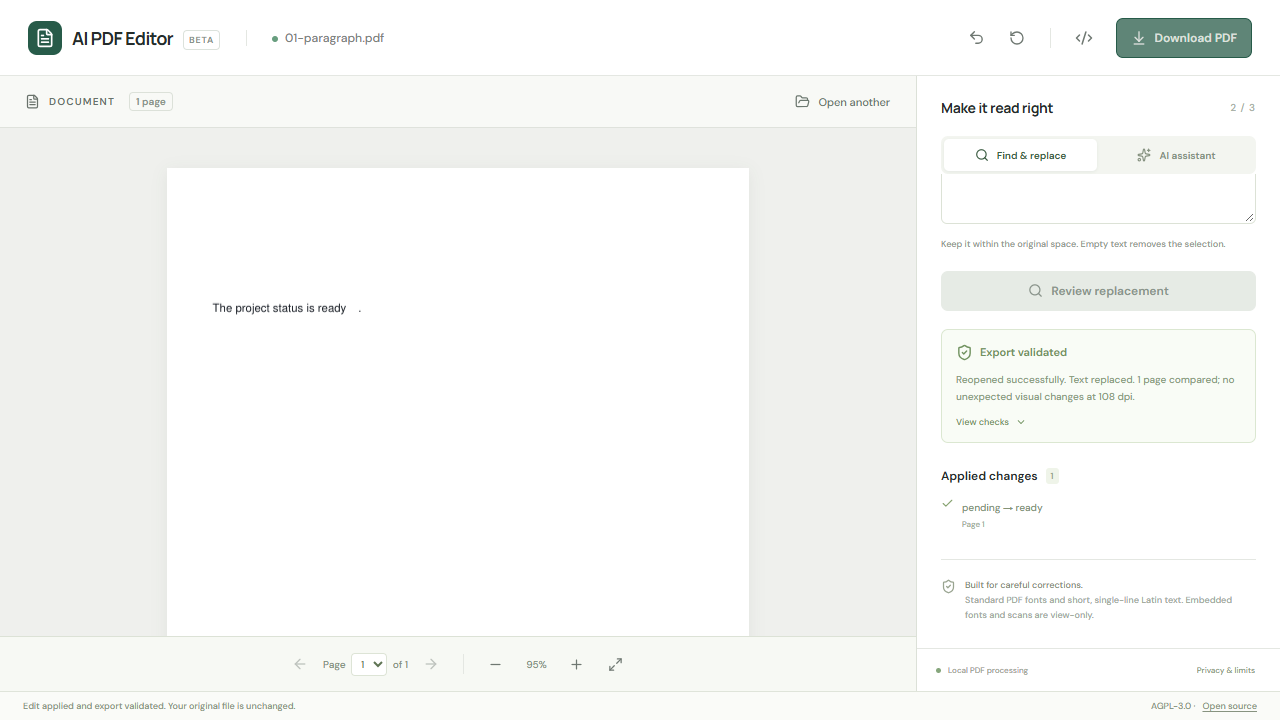
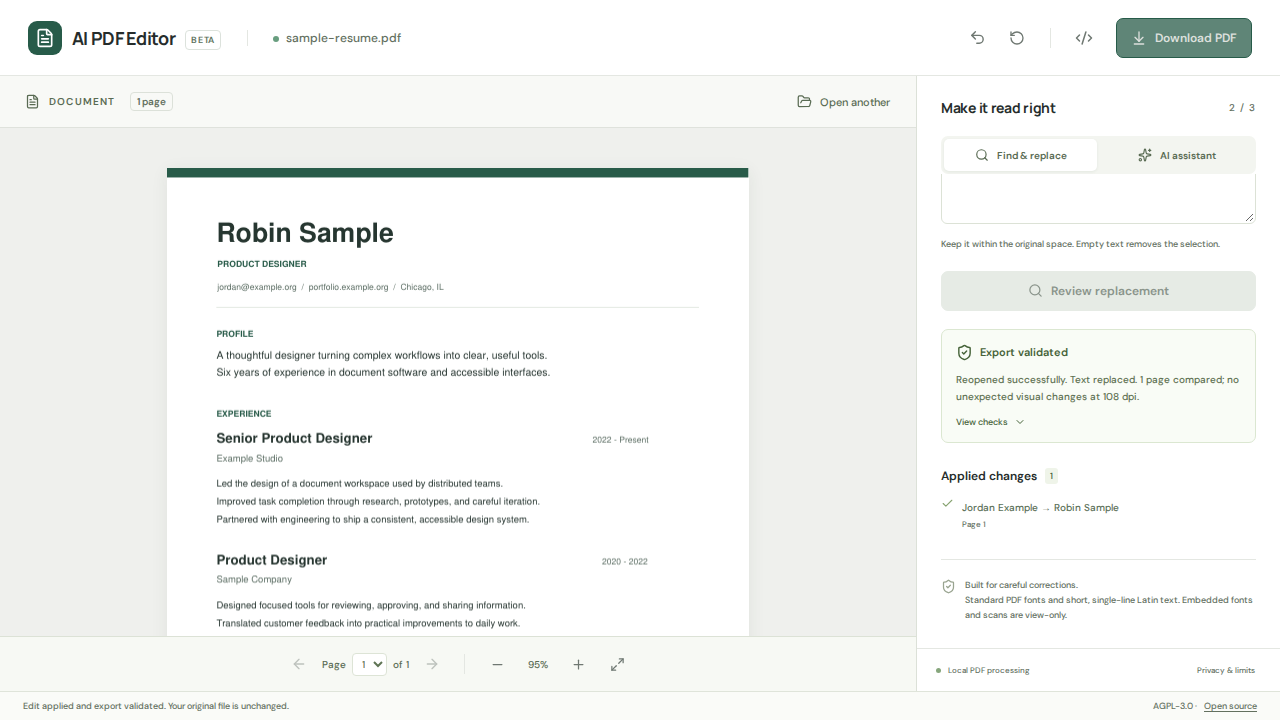
docs: publish verified production results and real AI export evidence

diff --git a/README.md b/README.md
@@ -2,7 +2,7 @@
 
 Careful corrections to existing PDF text, with an explicit review step and checks on the **actual exported PDF**. Manual editing stays on your device and works without an AI provider.
 
-**Status: PARTIALLY COMPLETE.** The manual workflow has passed real Chromium upload/edit/download tests. Public Cloudflare deployment and live Groq integration have not been verified yet. No live demo URL is claimed.
+**Status: COMPLETE for the documented MVP scope.** [Open the live editor](https://ai-pdf-editor.pages.dev). Production manual editing/export and real Turnstile → Groq proposal → review → apply → download have passed, including independent PDF.js verification. See [production evidence](docs/PRODUCTION-VERIFICATION.md) and [current CI/deployment runs](https://github.com/academ1cian/ai-pdf-editor/actions).
 
 ![Actual editor after a validated edit](docs/screenshots/editor.png)
 
@@ -14,7 +14,7 @@ Careful corrections to existing PDF text, with an explicit review step and check
 - Actual source-text removal through applied redaction, followed by real page-content insertion. No rectangle covering old text and no annotation-only mock edits.
 - Export validation: reopen, page count, exact changed-region text, neighboring glyph positions, hyperlinks and all-page pixel comparison.
 - Immutable original, validated snapshots, undo, reset, change history and genuinely modified downloads.
-- Optional AI proposal UI and protected Groq Worker implementation; fail-closed when unconfigured. Live provider/production checks remain pending.
+- Optional AI proposals through a protected Groq Worker; real production integration verified. Manual editing works independently of AI availability.
 
 ## Honest support boundaries
 
@@ -30,7 +30,7 @@ Validation at 108 dpi is evidence, not a guarantee of every printer, viewer or P
 
 Every successful proof-of-concept export reopened with independent PDF.js extraction. Every affected and unaffected page was raster-compared at 108 dpi; zero unexpected pixels outside the original target span plus a two-pixel antialias margin. The original input remained unchanged. See [engine decision](docs/ADR-001-pdf-engine.md), [test matrix](docs/TEST-MATRIX.md) and [machine-readable evidence](tests/evidence/results.json).
 
-Before migration to remote runners, 28 unit/integration tests and 3 Chromium browser tests passed; the frontend and Worker dry-run builds succeeded. Subsequent remote checks, added deployment safety tests and Firefox/WebKit results are reported by [GitHub Actions](https://github.com/academ1cian/ai-pdf-editor/actions), not assumed from the local results.
+GitHub-hosted verification passed **34 unit/integration/safety tests** and **12 end-to-end tests across Chromium, Firefox and WebKit**, plus typecheck, lint, production build and Worker dry-run. The actual public deployment passed **4 Chromium production smoke cases**. A separate hosted PDF.js check independently verified the real AI-downloaded export: replacement searchable, original target absent, same page count and all other extracted text preserved.
 
 ## Architecture
 
@@ -87,7 +87,7 @@ Use [GitHub repository secrets](https://github.com/academ1cian/ai-pdf-editor/set
 | `CLOUDFLARE_ACCOUNT_ID` | Chosen Cloudflare account |
 | `TURNSTILE_SECRET` | Server verification secret for the real widget |
 
-Public repository variables: `TURNSTILE_SITE_KEY`, `CF_FREE_PLAN_CONFIRMED=true` after verifying both providers are Free, and `DEPLOY_ENABLED=true` when ready. Requested Pages project name: `ai-pdf-editor`, anticipated hostname `ai-pdf-editor.pages.dev`; `CF_PAGES_PROJECT` can override it. Authenticated project creation verifies the returned hostname and stops on a collision. This is configuration, **not a claimed live URL**.
+Public repository variables: `TURNSTILE_SITE_KEY`, `CF_FREE_PLAN_CONFIRMED=true` after verifying both providers are Free, and `DEPLOY_ENABLED=true` when ready. Deployed Pages project: `ai-pdf-editor`; verified production hostname: [`ai-pdf-editor.pages.dev`](https://ai-pdf-editor.pages.dev). Authenticated project creation checks the returned hostname and stops on a collision.
 
 Read [deployment instructions and minimum authorization](docs/DEPLOYMENT.md). Deployment sends secret values directly over TLS to Cloudflare's Worker Secret API; no secret-valued shell arguments, temporary files, uploaded artifacts or log output. It checks the account's subscriptions read-only and refuses paid/unrecognized account plans. No billing/subscription writes are implemented. Forked PRs cannot deploy. Production smoke testing runs in a separate job without deployment/provider credentials.
 
@@ -97,8 +97,8 @@ Combined application: **AGPL-3.0-only**, with [full license](LICENSE) and [depen
 
 ## Next improvements
 
-1. Complete actual Cloudflare deployment, real Turnstile/Groq proposal-to-download test and automatic-deployment verification.
-2. Extend font reuse only after embedded glyph mapping and embedding-right checks pass new fixtures.
-3. Add independent render comparisons at multiple scales, larger legitimate redistributable corpora and deeper PDF feature validation.
+1. Extend font reuse only after embedded glyph mapping and embedding-right checks pass new fixtures.
+2. Add independent render comparisons at multiple scales and larger legitimate redistributable corpora.
+3. Add deeper PDF feature validation and broader document support without weakening rejection rules.
 
 Execution state and outstanding work: [progress log](docs/PROGRESS.md).

diff --git a/docs/PRODUCTION-VERIFICATION.md b/docs/PRODUCTION-VERIFICATION.md
@@ -1,0 +1,37 @@
+# Production verification — 2026-10-14
+
+Public application: **https://ai-pdf-editor.pages.dev**. Cloudflare returned the exact requested project hostname. Subscription verification passed before resource creation; no billing writes, paid plan activation or upgrades occurred.
+
+## Hosted public workflow
+
+[Deployment and public smoke run](https://github.com/academ1cian/ai-pdf-editor/actions/runs/38594486505), verified source commit `0a98b9356ba62f5da4f68a16ef7c6e9209a79c1d`.
+
+Four Chromium cases passed against the actual public HTTPS site, independently of the local preview: upload/render/manual review/apply/download/PDF.js reopen/original unchanged/undo/reset; invalid input and responsive layout; duplicates/overflow/scans; sample edit and accessibility/keyboard checks. The public version manifest matched the chosen commit. Actual production screenshots are under `docs/screenshots`, downloaded from this run's public-smoke artifact. The public browser tests reported no application page errors.
+
+## Real AI workflow
+
+The real in-app browser loaded the production sample and consented to send this synthetic page to Groq. Real Turnstile completed automatically; no fake token, test site key or CAPTCHA bypass was used. Instruction: “Replace Jordan Example with Robin Sample. Make no other changes.”
+
+Groq `openai/gpt-oss-20b` returned the requested structured proposal. QA selected “Check & review”, confirmed the exact target and replacement, observed Helvetica-Bold 28 pt with no substitution and a passing fit check, then applied the change. The engine reopened the export, checked text/geometry/features and compared the page at 108 dpi without unexpected visual changes. “Download PDF” produced the actual synthetic export preserved in [production-ai.pdf](evidence/production-ai.pdf).
+
+[Independent hosted PDF.js verification](https://github.com/academ1cian/ai-pdf-editor/actions/runs/38596234860) passed:
+- One page before and after.
+- `Robin Sample` is searchable and `Jordan Example` is absent.
+- All other extracted text is preserved (comparison ignores PDF content-stream order).
+- Output bytes differ; the public original still contains its original name.
[2 lines of base64/hex data omitted]
+
+[Machine-readable result](evidence/production-ai-verification.json) records the actual checked revision and timestamp. `scripts/verify-production-ai.mjs` reruns extraction on the stored **actual production export**; it does not call or simulate a provider. Testing a new live provider request requires the real UI workflow again.
+
+Turnstile's cross-origin iframe emitted opaque NaN diagnostic console messages. They did not prevent verification or the provider request; no application JavaScript errors were observed. This is recorded rather than claiming an entirely empty console.
+
+## Deployment reliability and repeatability
+
+Main-push quality success actually triggered deployment. The initial upload exposed a Pages custom-config restriction (fixed), followed by a routing propagation race (retry succeeded). Deployment now uses the required standard Pages config filename only in the ephemeral runner checkout and waits for both enabled API configuration and the exact public version before starting its credential-free smoke job.
+
+GitHub Actions stores provider/deployment credentials. Only the provisioning step receives Groq/Turnstile secrets and sends them directly over TLS to Cloudflare Worker secrets. Public builds, screenshots, PDFs and test artifacts contain synthetic/public data only. The free-account read gate and conservative transactional AI budgets remain enabled.
+
+## Scope
+
+This is the constrained MVP: short single-line printable ASCII replacements in standard PDF fonts that fit the original area. Embedded/custom fonts, scans, forms/signatures, encryption, semantic tags and complex geometry remain unsupported. Validation is not certification of arbitrary PDF features or secure document sanitization.

diff --git a/docs/TEST-MATRIX.md b/docs/TEST-MATRIX.md
@@ -42,8 +42,8 @@ The scan analogue tests absence of selectable text; it is not counted as a photo
 
 ## Additional automated checks
 
-Initial executed Vitest suite: 28 tests, 2 files, all pass. It covers exact/missing/ambiguous targets, normalization, forged rectangles/stale references, repeated edits/undo/reset/source immutability, unsupported fonts, overflow, corruption/type/size limits, Unicode/newline rejection, opacity/overlap/clipping, validation evidence, strict AI schemas, allowed origins, CAPTCHA host/action, persistent budget decision logic, provider/network/malformed-output errors and valid resolved proposals. Mocked provider responses test server logic only; they do not establish real Groq integration.
+Executed GitHub-hosted Vitest suite: **34 tests, all pass**. Coverage includes exact/missing/ambiguous targets, normalization, forged rectangles/stale references, repeated edits/undo/reset/source immutability, unsupported fonts, overflow, real encrypted PDFs, corruption/type/size limits, Unicode/newline rejection, opacity/overlap/clipping, a 20-page document, validation evidence, strict AI schemas, allowed origins, Turnstile host/action, persistent budget decisions, provider/network/malformed-output errors, resolved proposals, subscription-plan rejection and secret-provisioning isolation.
 
-Initial executed Chrome/Chromium suite: 3 tests, all pass. Upload → render → manual proposal → review → apply → download → independent PDF.js extraction → unchanged source → undo/reset; invalid file/unconfigured AI/mobile width; duplicate selection/overflow/scan handling. Production-build JS/WASM rendering is exercised. Actual screenshots are in docs/screenshots.
+Executed GitHub-hosted browser suite: **12 tests, all pass** across Chromium, Firefox and WebKit (four each). Upload → render → manual review → apply → download → independent PDF.js extraction → unchanged original → undo/reset; invalid files/mobile layout; duplicate selection/overflow/scan handling; sample workflow; WCAG2 A/AA audits and keyboard privacy-dialog dismissal. Both production JS and WASM are exercised.
 
-Remote GitHub Actions adds Firefox/WebKit compatibility and deployment secret/plan safety checks. Those results must be read from the actual run before claiming success. Live Groq, real Turnstile, public deployment, production network/console, and automatic redeployment verification remain pending.
+Actual public HTTPS deployment: **4 Chromium smoke cases, all pass**, with exact commit verification. Real browser Turnstile and Groq returned the requested synthetic name replacement. The actual downloaded AI export independently passed PDF.js comparison on a hosted runner. Mocked API unit tests are separate from this real provider evidence. See [production verification](PRODUCTION-VERIFICATION.md) for run links, hashes, provenance and console observations.

diff --git a/docs/DEPLOYMENT.md b/docs/DEPLOYMENT.md
@@ -6,7 +6,7 @@ All install/build/test/deployment commands execute on standard GitHub-hosted Ubu
 
 Repository: https://github.com/academ1cian/ai-pdf-editor
 
-Requested Pages project: **`ai-pdf-editor`**. Planned production hostname: **`ai-pdf-editor.pages.dev`**. This is not a claimed live URL until Cloudflare deployment succeeds. The script checks the actual returned `subdomain` and stops if Cloudflare assigns something different. `CF_PAGES_PROJECT` can override the project name after a collision is resolved explicitly.
+Deployed Pages project: **`ai-pdf-editor`**. Verified production hostname: **[`ai-pdf-editor.pages.dev`](https://ai-pdf-editor.pages.dev)**. The script checks the actual returned `subdomain` and stops if Cloudflare assigns something different. `CF_PAGES_PROJECT` can override the project name after a collision is resolved explicitly.
 
 Create a free managed Turnstile widget for **`ai-pdf-editor.pages.dev`**. Do not use testing site keys in production. The proxy verifies both that exact hostname and action `pdf-plan`.
 
@@ -53,7 +53,7 @@ The deployment workflow is `.github/workflows/deploy.yml`. Run it through the [A
 
 In the actual public app, open the synthetic sample, choose AI assistant, consent to sending current-page extracted text, and complete real Turnstile if prompted. Ask to replace `Jordan Example` with `Robin Sample`. The model must return a real structured proposal, the user/QA must review/apply it, and the downloaded PDF must independently contain the replacement without the original in its target region.
 
-Automated API mocks and fake CAPTCHA tokens are not live integration evidence. A human-interactive challenge requires participation in the browser. Until real provider/Turnstile and public export checks succeed, project status remains PARTIALLY COMPLETE.
+Automated API mocks and fake CAPTCHA tokens are not live integration evidence. A human-interactive challenge requires participation in the browser. These real provider/Turnstile and public export checks passed on 2026-10-14. See [production verification](PRODUCTION-VERIFICATION.md).
 
 ## Abuse protection and free limits
 

diff --git a/docs/PROGRESS.md b/docs/PROGRESS.md
@@ -40,3 +40,10 @@ This log is updated at meaningful milestones. Test and deployment claims must re
 - Production Turnstile verified automatically in the real browser. Groq returned a real Jordan Example → Robin Sample proposal; QA reviewed it, applied it, observed successful text/geometry/pixel export validation, and downloaded the actual synthetic PDF.
 - Added that actual downloaded synthetic PDF as reproducible evidence and a separate hosted PDF.js verifier. Independent AI-export verification is pending this run; no mock provider or fake CAPTCHA was used.
 - The initial post-upload API check ran before routing propagation; retry succeeded. Added bounded propagation retries checking both enabled API and exact public commit before reporting deployment ready.
+
+## 2026-10-14 — Acceptance evidence and handoff
+
+- Independent hosted PDF.js verification of the real AI export passed (run 38596234860): one page, exact searchable replacement, original target absent, all other extracted text preserved; original and export SHA-256 recorded in docs/evidence/production-ai-verification.json.
+- Hosted format/license refresh succeeded (run 38596541920); refreshed dependency inventory and formatted implementation committed by the runner.
+- Production manual and real AI acceptance criteria have passed for the explicitly constrained scope. Updated README, test matrix, deployment instructions and production evidence with executed results and real screenshots.
+- Status: COMPLETE for the documented MVP scope. The final documentation/source commit still receives the same automatic quality/deployment/public smoke gates; their live results are linked through GitHub Actions. No remaining user credential action is needed.
